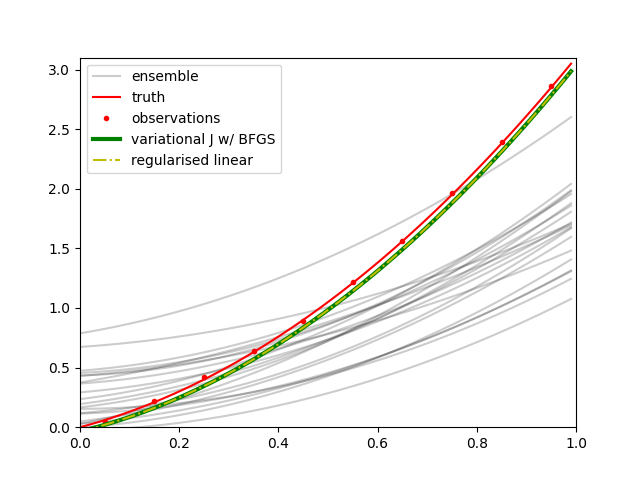
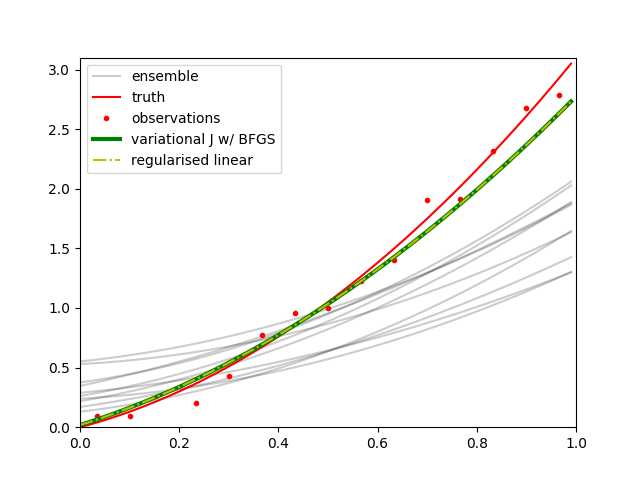
small commit prior to new L-V branch

diff --git a/4DEnVar_engine.c b/4DEnVar_engine.c
@@ -698,6 +698,127 @@ Code below here is in development
 */
 
 
+gsl_vector * fourDEnVar_ridge_GSV( gsl_matrix * xb, gsl_matrix * hx, gsl_vector * y, gsl_matrix * R, gsl_vector * hx_bar )
+/*
+An implementation of 4DEnVar using the ridge regression form of the cost function
+This version uses inbuilt routines from the GSL, that uses GCV, to find a value of the ridge parameter
+
+Fundamentally, this mean the results will be different from other routines due to the variable
+strength of the ridge parameter.
+
+For more details, see:
+https://www.gnu.org/software/gsl/doc/html/lls.html#c.gsl_multifit_linear
+
+arguments:
+
+gsl_matrix * xb     --- the background ensemble of initial state and/or parameters (n_dims cols; n_ens rows)
+gsl_matrix * hx     --- the ensemble of model predicted observations (n_obs cols; e_ens rows)
+gsl_vector * y      --- the observations (n_obs rows)
+gsl_matrix * R      --- the observation uncertainty covariance matrix (n_obs rows; n_obs cols) 
+gsl_vector * hx_bar --- the model predicted observations for the mean of xb (n_obs rows)
+
+returns:
+
+gsl_vector * xa     --- the analysis vector (n_dims rows)
+
+[Note - no actual variable called "xa" as we overwrite xb_bar for efficiency ]
+
+*/
+{
+
+    gsl_vector *xb_bar ;
+    gsl_matrix *X_dash_b ;
+    gsl_matrix *HX_dash_b ;
+    gsl_matrix *HXbRsqrt = gsl_matrix_calloc(R->size1, xb->size2);
+    gsl_matrix *HXbRsqrtT = gsl_matrix_calloc(xb->size2, R->size1);
+    gsl_matrix *I = gsl_matrix_calloc(xb->size2, xb->size2);
+    
+    const size_t npoints = 200; 
+    gsl_vector *reg_param = gsl_vector_alloc(npoints);
+    gsl_vector *G = gsl_vector_alloc(npoints);
+    
+    gsl_multifit_linear_workspace *work = gsl_multifit_linear_alloc(R->size1, xb->size2);
+    
+    gsl_vector *w = gsl_vector_calloc(xb->size2) ;  /*calloc ensures w=0*/
+    int nens=xb->size2;
+    int i, j;
+    float scale ;
+ 
+    double rnorm, snorm;
+    double lambda_gcv; 
+    double G_gcv;
+        
+    int signum;
+    gsl_permutation *p_r=gsl_permutation_alloc(R->size1);
+    //gsl_matrix *R_inv = gsl_matrix_calloc(R->size1, R->size2);
+    gsl_matrix *R_inv_sqrt = gsl_matrix_calloc(R->size1, R->size2);
+
+
+    /*set the identity matrix*/
+    gsl_matrix_set_identity(I);
+
+    /*invert the R matrix*/
+    gsl_linalg_LU_decomp(R, p_r, &signum);
+    gsl_linalg_LU_invert(R, p_r, R_inv_sqrt);
+   
+    gsl_linalg_cholesky_decomp1(R_inv_sqrt);  
+    for(i=0;i<R->size1;i++)
+        for(j=i+1;j<R->size2;j++)
+           gsl_matrix_set(R_inv_sqrt, i, j, 0.0);
+   
+        
+    /*calculate the mean of each parameter 
+    in the ensemble*/
+    xb_bar = mean_vector_from_matrix(xb);
+
+    /*calculate y-h(xb)
+    n.b. ***overwrites y *** */
+    gsl_vector_sub(y, hx_bar);
+
+    /*calculate the perturbation matrix
+    eqn 21 in Pinnington 2020*/
+    scale=1./sqrt((float)nens-1.);
+    X_dash_b = perturbation_matrix(xb,xb_bar,scale);
+
+    /*calculate HXb matrix
+    eqn 26 in Pinnington 2020
+    */
+    HX_dash_b = perturbation_matrix(hx,hx_bar,scale);
+
+    /*calculate R^-1/2*(HXb), place into tmp1 
+    */
+    //gsl_blas_dgemm(CblasNoTrans, CblasNoTrans,1.0, R_inv_sqrt, HX_dash_b, 0.0, HXbRsqrt);
+    //###gsl_blas_dgemm(CblasNoTrans, CblasNoTrans,1.0, HX_dash_b, R_inv_sqrt, 0.0, HXbRsqrt);
+
+    
+    //gsl_matrix_transpose_memcpy(HXbRsqrtT, HXbRsqrt);
+      
+    /*calculate the SVD*/
+    //gsl_multifit_linear_svd(HXbRsqrt, work);
+    gsl_multifit_linear_svd(HX_dash_b, work);
+    /*or...*/
+    //gsl_multifit_linear_bsvd(HXbRsqrt, work);
+
+
+    /* calculate GCV curve and find its minimum */
+    gsl_multifit_linear_gcv(y, reg_param, G, &lambda_gcv, &G_gcv, work);
+    
+    //fprintf(stderr,"lambda=%f\n",lambda_gcv);
+
+    /* regularize with lambda_gcv */
+    //gsl_multifit_linear_solve(lambda_gcv, HXbRsqrt, y, w, &rnorm, &snorm, work);
+    gsl_multifit_linear_solve(lambda_gcv, HX_dash_b, y, w, &rnorm, &snorm, work);
+
+    /*translate w back into observation space*/
+    /*n.b. writing the answer (xa) over xb_bar as we need to 
+    add that back in anyway, so convenient given dgemv */
+    gsl_blas_dgemv(CblasNoTrans, 1.0,X_dash_b, w, 1.0, xb_bar);
+
+    /*free the work space*/
+    gsl_multifit_linear_free(work);
+
+    return(xb_bar);
+}
 
 
 

diff --git a/linear_tests/genLinear.py b/linear_tests/genLinear.py
@@ -131,7 +131,7 @@ if __name__=="__main__":
 
     #coefs_truth, coefs_prior, uncert_prior, nens, nobs, obs_uncert
     truth=[2.,1.1,0.]
-    l=linearModelEnsemble(truth,[1.,0.5,0.3],[0.2,0.2,0.2],20,10,0.01,rand_obs_y=True)
+    l=linearModelEnsemble(truth,[1.,0.5,0.3],[0.2,0.2,0.2],10,15,0.1,rand_obs_y=True)
     l.write_files()
         
     #run the 4DEnVar via a subprocess
@@ -141,6 +141,8 @@ if __name__=="__main__":
     #run the linear 4DEnVar solver via a subprocess
     out_linear=subprocess.run(["../4DEnVar_ridge","0xb.dat","0hx.dat","0y.dat","0R.dat","0hxbar.dat"],capture_output=True)
     out_linear=out_linear.stdout.decode("utf-8").rstrip().split("\n")
+
+    #print(out_linear.stderr.decode("utf-8"))
 
     #read the results of the analysis
     analysis=[]    

diff --git a/4DEnVar_engine.h b/4DEnVar_engine.h
@@ -11,6 +11,7 @@ gsl_vector * fourDEnVar( gsl_matrix *, gsl_matrix *, gsl_vector *, gsl_matrix *,
 gsl_vector * fourDEnVar_linear( gsl_matrix *, gsl_matrix *, gsl_vector *, gsl_matrix *, gsl_vector * );
 gsl_vector * fourDEnVar_ridge_explicit_inverse( gsl_matrix *, gsl_matrix *, gsl_vector *, gsl_matrix *, gsl_vector * );
 gsl_vector * fourDEnVar_ridge_SVD( gsl_matrix *, gsl_matrix *, gsl_vector *, gsl_matrix *, gsl_vector * );
+gsl_vector * fourDEnVar_ridge_GSV( gsl_matrix *, gsl_matrix *, gsl_vector *, gsl_matrix *, gsl_vector * );
 gsl_vector * mean_vector_from_matrix( gsl_matrix * );
 gsl_matrix * perturbation_matrix( gsl_matrix *, gsl_vector *, float );
 gsl_matrix * fourDEnVar_sample_posterior( gsl_matrix *, gsl_matrix *, gsl_matrix *, gsl_vector *, gsl_vector * );

diff --git a/4DEnVar_ridge.c b/4DEnVar_ridge.c
@@ -151,6 +151,7 @@ hx_bar - vector of predicted observations from mean parameters
 
     //xa = fourDEnVar_linear( xb, hx, y, R, hx_bar );
     xa = fourDEnVar_ridge_SVD( xb, hx, y, R, hx_bar );
+    //xa = fourDEnVar_ridge_GSV( xb, hx, y, R, hx_bar );
     Xa = fourDEnVar_sample_posterior( xb, hx, R, hx_bar, xa );
 
     print_gsl_vector(xa);
